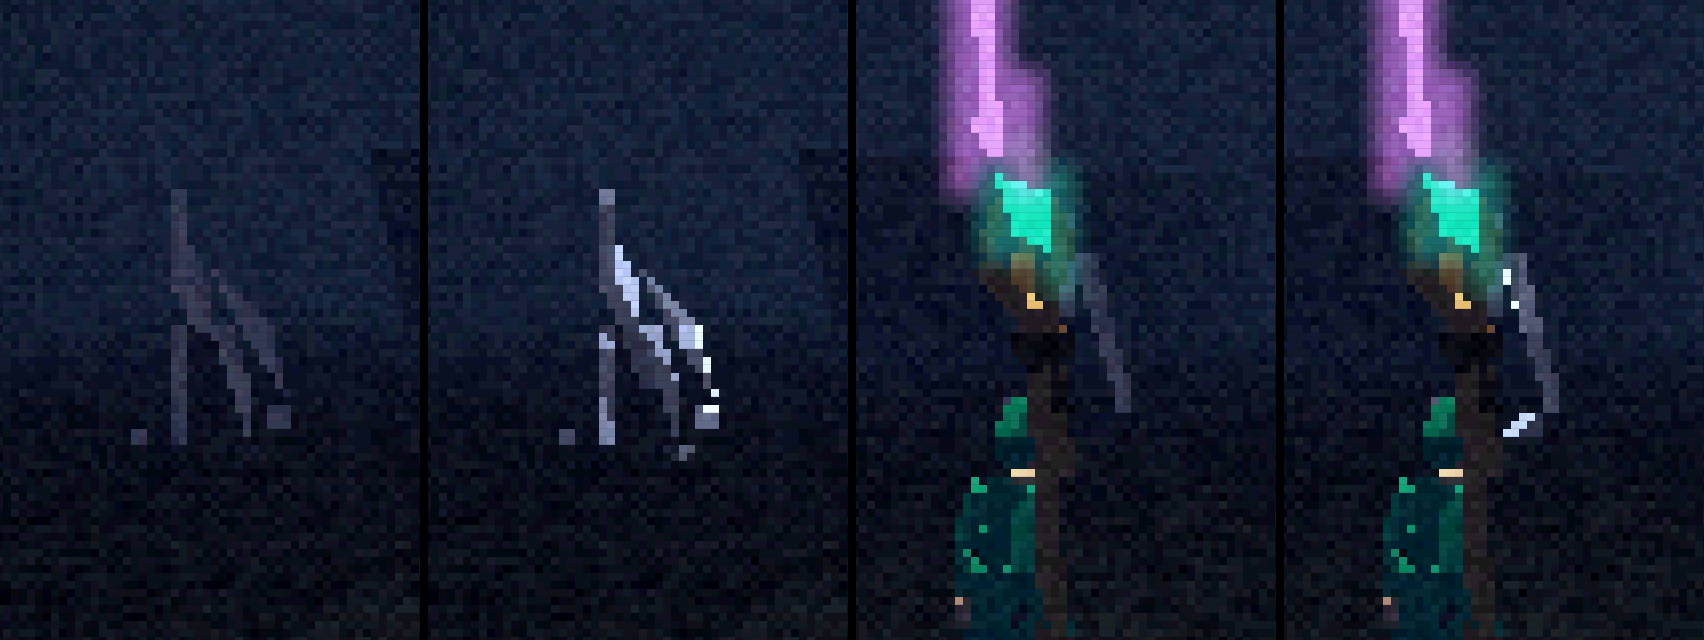
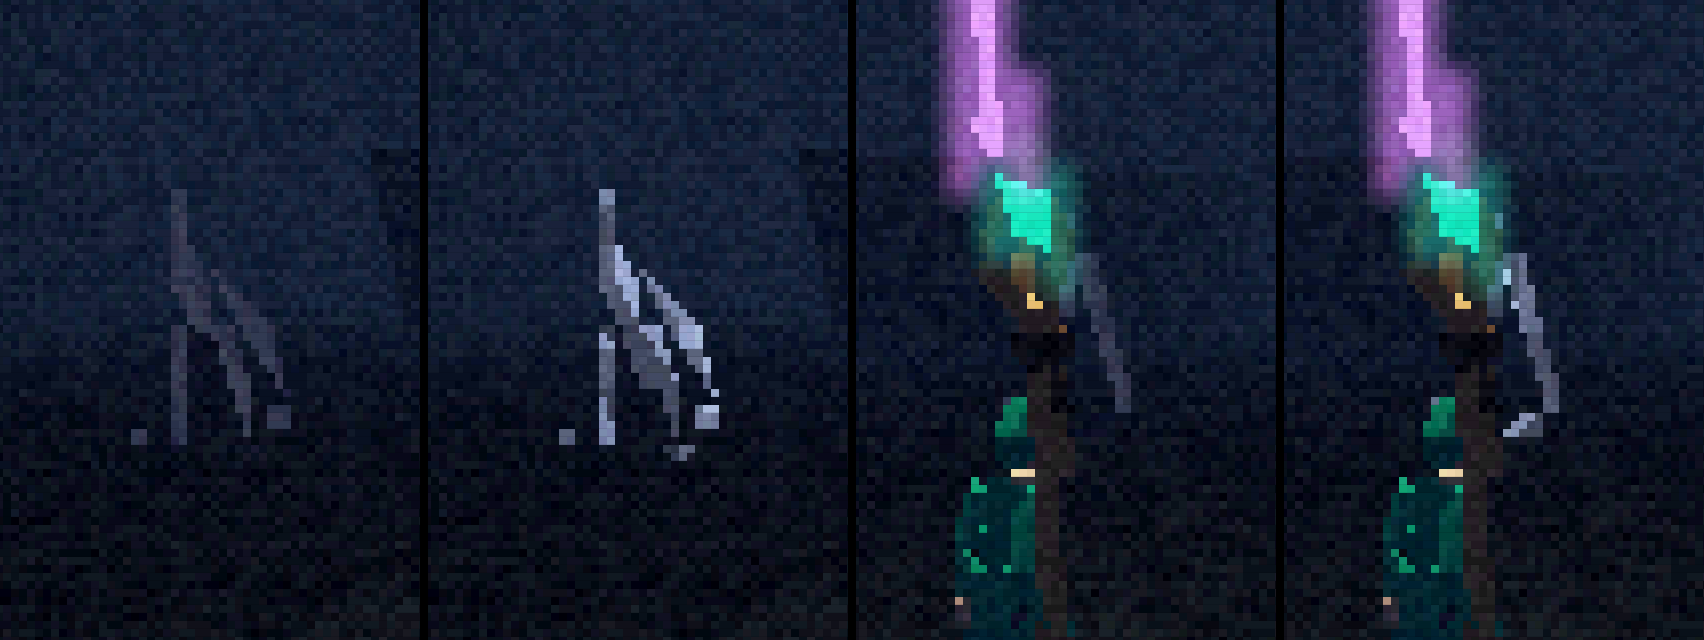
fix(render): contorno sem branco saturado e máscara do corpo inteiro (revisão do PR #34)
- cor do contorno limitada a amount × token ≤ 1 por canal (teste nos dados e
  limite no código); a soma no shader não passa da cor do contorno
- render.hunter_outline: power 1, amount 1,15 (3,21:1 fora do cone), com a
  tabela potência × amount registrada: nenhum ponto dá 3:1 e body_keep ≥ 0,9
  juntos (decisão de arte pendente)
- compare.mjs: máscara do corpo a partir do caçador chapado (opção flat do
  gancho), que conta cabeça e farrapos; cena de referência
  medium-cacador-fora
- applySkin leva o contorno para o atlas trocado pela skin
- capturas do marco A3 regeneradas

Claude-Session: https://claude.ai/code/session_01RHvzBkpAz1qJUMgUKvPxkx

diff --git a/packages/client/src/render/debug.ts b/packages/client/src/render/debug.ts
@@ -5,7 +5,8 @@ import type * as THREE from "three";
 import { balance } from "../data.ts";
 import type { PresetName } from "./present.ts";
 import { getLayerA, getLayers, getReduceFlicker, setLayerA, setLayers, setOverrides, setReduceFlicker, type LayerAIntensity, type LayerSet } from "./layers.ts";
-import { getHunterOutline, getPs1, setHunterOutline, setPs1, type Ps1Intensity } from "./ps1.ts";
+import { getHunterOutline, getPs1, Ps1Material, setHunterOutline, setPs1, type Ps1Intensity } from "./ps1.ts";
+import { tok } from "../look.ts";
 import { genVisuals, meshes, renderFrame, setPreset, type RenderCtx } from "./scene.ts";
 import { telegraphOn } from "./characters/runtime.ts";
 import { portrait, type PortraitOptions } from "./characters/portrait.ts";
@@ -51,8 +52,15 @@ export interface RenderHook {
 }
 
 type View = { yaw: number; pitch: number; thirdPerson: boolean };
-/** malhas escondidas na captura, por chave de `meshes` (hunter, beam<i>, s<id>…): legibilidade por diferença */
-export interface CaptureOpts { hidden?: string[] }
+/**
+ * malhas escondidas na captura, por chave de `meshes` (hunter, beam<i>, s<id>…): legibilidade por diferença.
+ * `flat`: malhas desenhadas chapadas em ui.text, sem luz, névoa nem bloom (máscara da silhueta inteira, mesmo onde a
+ * cor some no fundo; tools/visual/compare.mjs)
+ */
+export interface CaptureOpts { hidden?: string[]; flat?: string[] }
+
+/** material chapado da máscara de silhueta (criado na primeira captura com `flat`) */
+let flatMat: Ps1Material | null = null;
 
 export function installRenderHook(getCtx: () => RenderCtx | undefined, getGame: () => GameState | undefined) {
   const need = () => {
@@ -78,10 +86,16 @@ export function installRenderHook(getCtx: () => RenderCtx | undefined, getGame: 
       const find = (k: string) => meshes.get(k) ?? (k.startsWith("beam") ? genVisuals[Number(k.slice(4))]?.beam : undefined);
       const hidden = (opts.hidden ?? []).map(find).filter((m): m is THREE.Object3D => !!m && m.visible);
       for (const m of hidden) m.visible = false;
+      const swapped: [THREE.Mesh, THREE.Material | THREE.Material[]][] = [];
+      for (const root of (opts.flat ?? []).map(find)) {
+        flatMat ??= new Ps1Material({ lit: false, fog: false, emissive: false, color: tok("ui.text") });
+        root?.traverse(o => { const m = o as THREE.Mesh; if (m.isMesh && m.visible) { swapped.push([m, m.material]); m.material = flatMat!; } });
+      }
       // a captura independe do histórico: o shadow map é redesenhado para esta vista
       ctx.shadowStep = NaN;
       renderFrame(ctx, G, view);
       for (const m of hidden) m.visible = true;
+      for (const [m, mat] of swapped) m.material = mat;
       syncDynamic(ctx, G);
       return readScreen(ctx);
     },

diff --git a/packages/client/src/render/ps1.ts b/packages/client/src/render/ps1.ts
@@ -36,6 +36,11 @@ export const ps1Uniforms = {
 export const ditherUniform = { value: cfg.dither };
 
 const ho = balance.render.hunter_outline;
+/** cor do contorno: token × amount, cada canal limitado a 1 */
+function rimColor(hex: number, amount: number): THREE.Color {
+  const c = new THREE.Color().setHex(hex, THREE.LinearSRGBColorSpace).multiplyScalar(amount);
+  return c.setRGB(Math.min(1, c.r), Math.min(1, c.g), Math.min(1, c.b), THREE.LinearSRGBColorSpace);
+}
 /**
  * contorno do caçador (D-18): uniformes compartilhados pelos materiais com `rim` (o mesmo objeto em todos).
  * uRim = intensidade de 0 a 1 (acessibilidade); uRimColor já leva render.hunter_outline.amount; uRimPower = expoente
@@ -43,8 +48,9 @@ const ho = balance.render.hunter_outline;
  */
 export const rimUniforms = {
   uRim: { value: ho.intensity },
-  // valor cru do token, como os demais materiais (scene.ts desliga o ColorManagement, mas este módulo carrega antes)
-  uRimColor: { value: new THREE.Color().setHex(tok(ho.color), THREE.LinearSRGBColorSpace).multiplyScalar(ho.amount) },
+  // valor cru do token, como os demais materiais (scene.ts desliga o ColorManagement, mas este módulo carrega antes);
+  // cada canal fica ≤ 1 (sem branco saturado; o teste de render-layers confere amount × token ≤ 1 nos dados)
+  uRimColor: { value: rimColor(tok(ho.color), ho.amount) },
   uRimPower: { value: ho.power },
 };
 /** intensidade atual do contorno do caçador (0 a 1) */
@@ -266,8 +272,9 @@ void main() {
   outgoing = mix( perFragment, perVertex, uGouraud ) * BRDF_Lambert( diffuseColor.rgb );
 #endif
 #ifdef PS1_RIM
-  // contorno somado à cor (não depende da luz da cena); a névoa adiante o apaga com a distância como ao resto
-  outgoing += uRimColor * vRim;
+  // contorno somado à cor (não depende da luz da cena), sem passar da cor do contorno (o que já era mais claro fica
+  // como estava): a borda nunca estoura em branco; a névoa adiante o apaga com a distância como ao resto
+  outgoing = min( outgoing + uRimColor * vRim, max( outgoing, uRimColor ) );
 #endif
   // alfa = máscara de emissivo para o bloom da camada A (0 = emissivo); o passe final escreve alfa 1 na tela
   gl_FragColor = vec4( outgoing, 1.0 - uEmissive );

diff --git a/packages/shared/test/render-layers.test.ts b/packages/shared/test/render-layers.test.ts
@@ -48,6 +48,11 @@ describe("contorno do caçador (D-18; Art Bible §5.3)", () => {
     expect(r.hunter_outline.intensity).toBeLessThanOrEqual(1);
   });
 
+  it("amount × token ≤ 1 em cada canal (sem branco saturado)", () => {
+    const rgb5 = (palette.tokens[r.hunter_outline.color] as { rgb5: number[] }).rgb5;
+    for (const v of rgb5) expect((r.hunter_outline.amount * Math.round((v * 255) / 31)) / 255).toBeLessThanOrEqual(1);
+  });
+
   it("intensidade fora de 0..1 e cor que não é token são recusadas", () => {
     expect(() => parseBalance(yaml.replace(/(hunter_outline: \{intensity: )[\d.]+/, "$11.5"))).toThrow();
     expect(() => parseBalance(yaml.replace(/(hunter_outline: \{intensity: [\d.]+, color: )[a-z_.]+/, "$1\"#5a5e66\""))).toThrow();

diff --git a/packages/client/src/render/characters/runtime.ts b/packages/client/src/render/characters/runtime.ts
@@ -142,7 +142,7 @@ function applySkin(model: THREE.Object3D, skin: SkinDef, anchor: Anchor | undefi
     for (const mesh of meshes) {
       const m = mesh.material as Ps1Material, map = m.uniforms.tMap.value as THREE.Texture | null;
       if (!map || m.name !== "atlas") continue;
-      if (!cache.has(map)) { const nm = new Ps1Material({ lit: true, map: skinAtlas(map, skin) }); nm.name = m.name; cache.set(map, nm); }
+      if (!cache.has(map)) { const nm = new Ps1Material({ lit: true, map: skinAtlas(map, skin), rim: "PS1_RIM" in m.defines }); nm.name = m.name; cache.set(map, nm); }
       mesh.material = cache.get(map)!;
     }
   }
